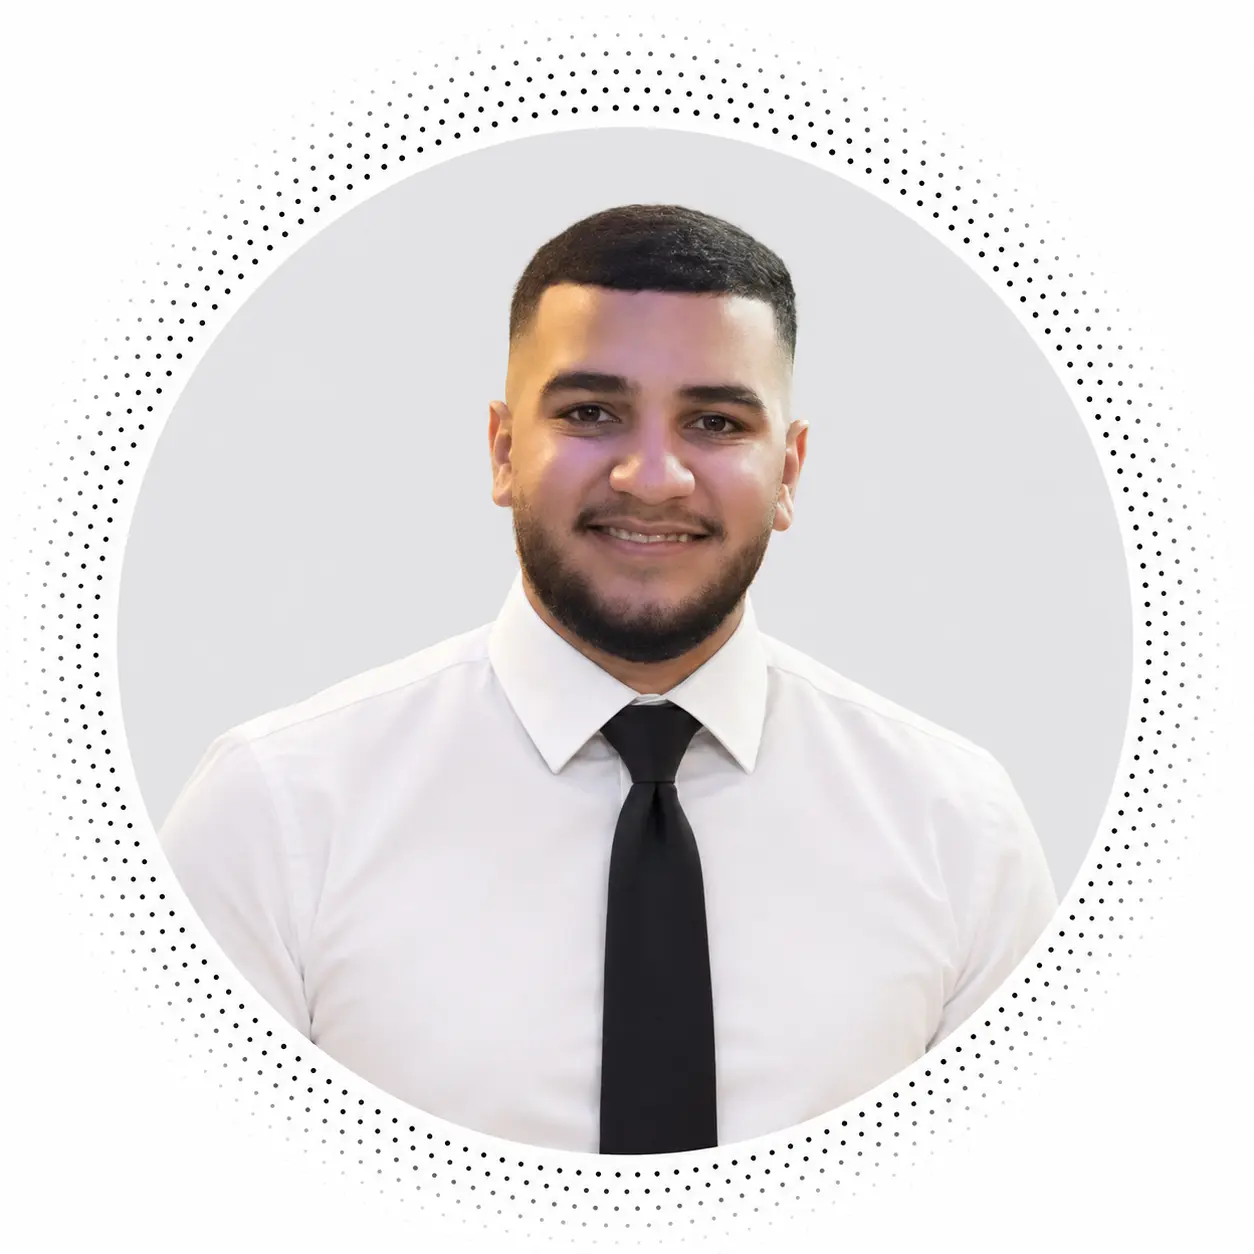
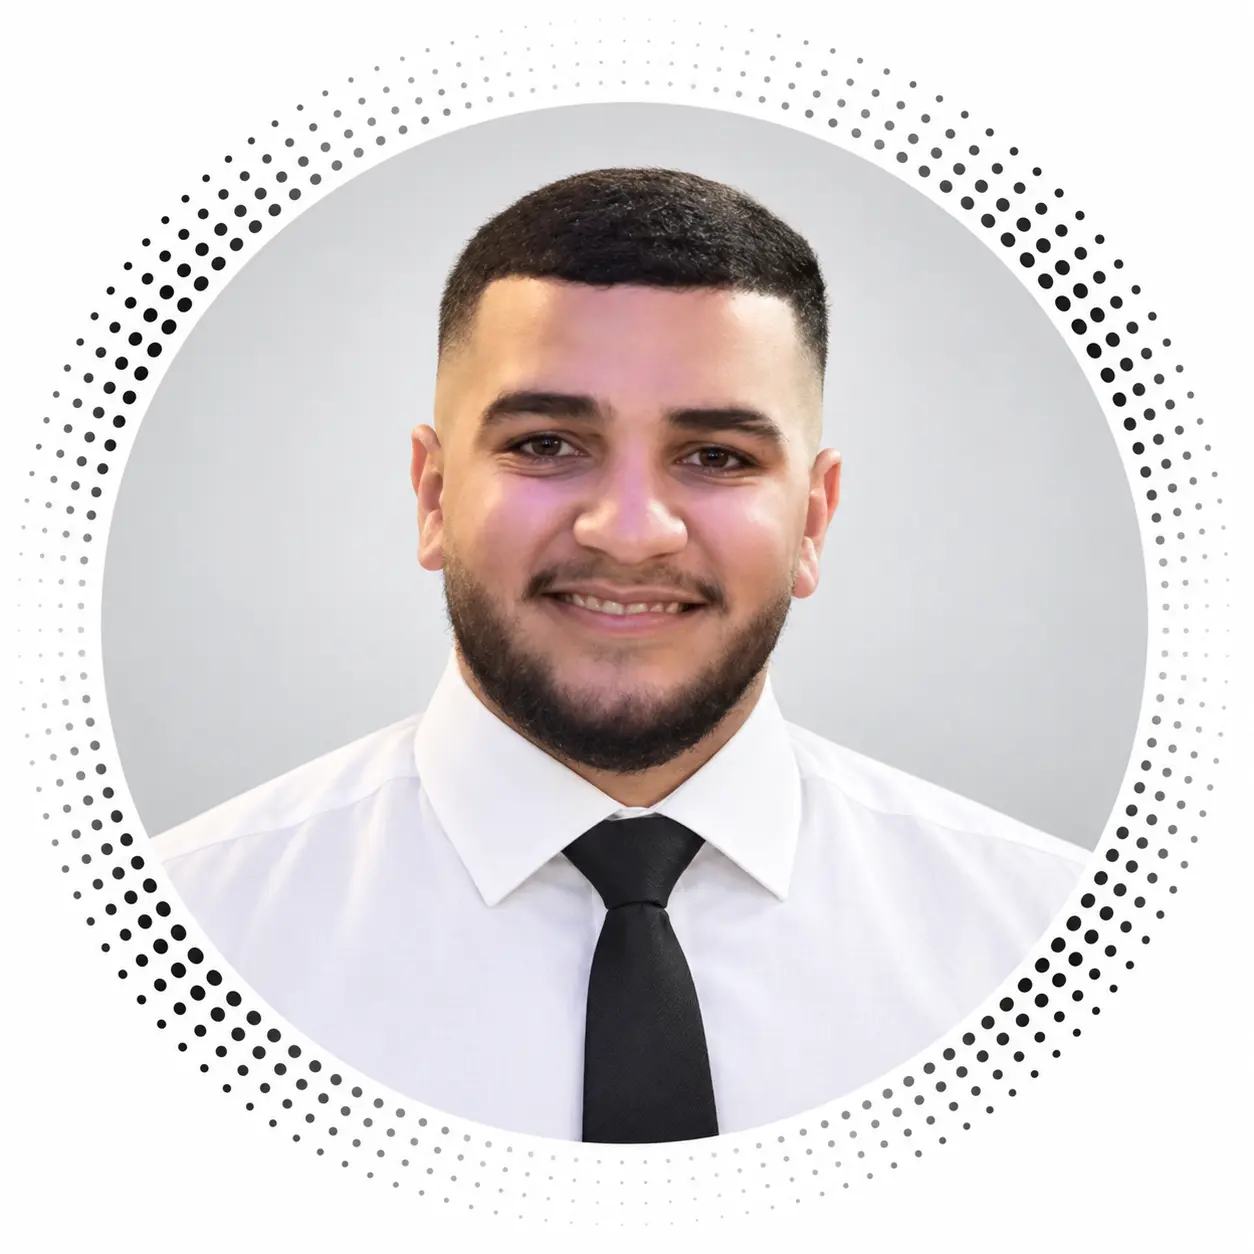
update images

Changed region(s): [[0.0311, 0.0622, 0.9641, 0.9641]]

diff --git a/index.html b/index.html
@@ -674,7 +674,7 @@
             data-message="مرحباً، أريد الاستفسار عن فلل THARA."
           >
             <div class="team-image">
-              <img src="assets/IMG_4623.webp" alt="عضو فريق THARA" />
+              <img src="assets/majd.webp" alt="عضو فريق THARA" />
 
               <div class="team-hover">
                 <span> تواصل عبر واتساب </span>
